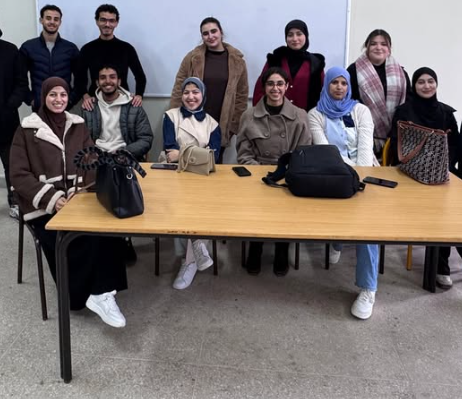
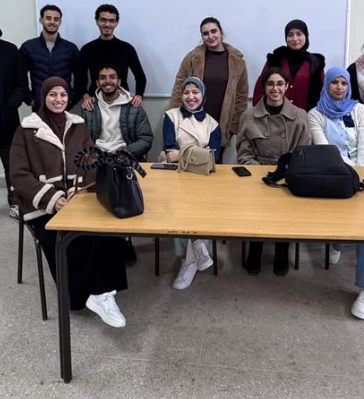
feat:correction de  page activités

diff --git a/rag_systeme/data/activities.ts b/rag_systeme/data/activities.ts
@@ -36,7 +36,10 @@ export const activities: Activity[] = [
     description: "Événement pour la Journée Internationale de la Femme, centré sur la place des femmes dans la tech.",
     type: "club_event",
     instagram: "",
-    images: ["/images/events/orientation.png"],
+    images: ["/images/events/riseher1.png",
+            "/images/events/orienation.png",
+
+    ],
   },
   {
     id: "forum-entreprises-eniad",
